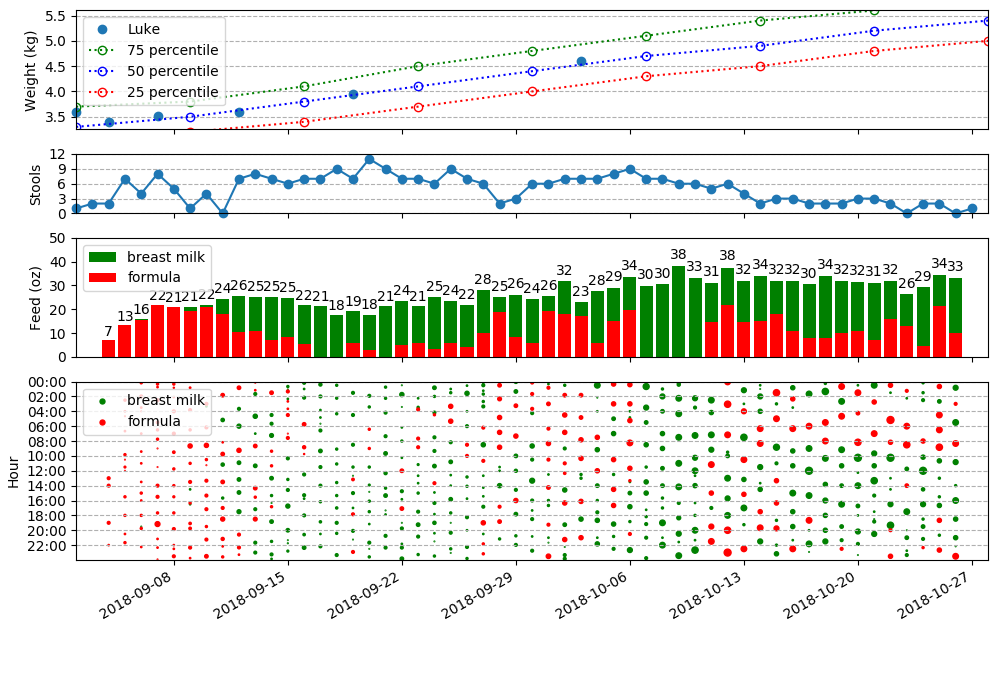
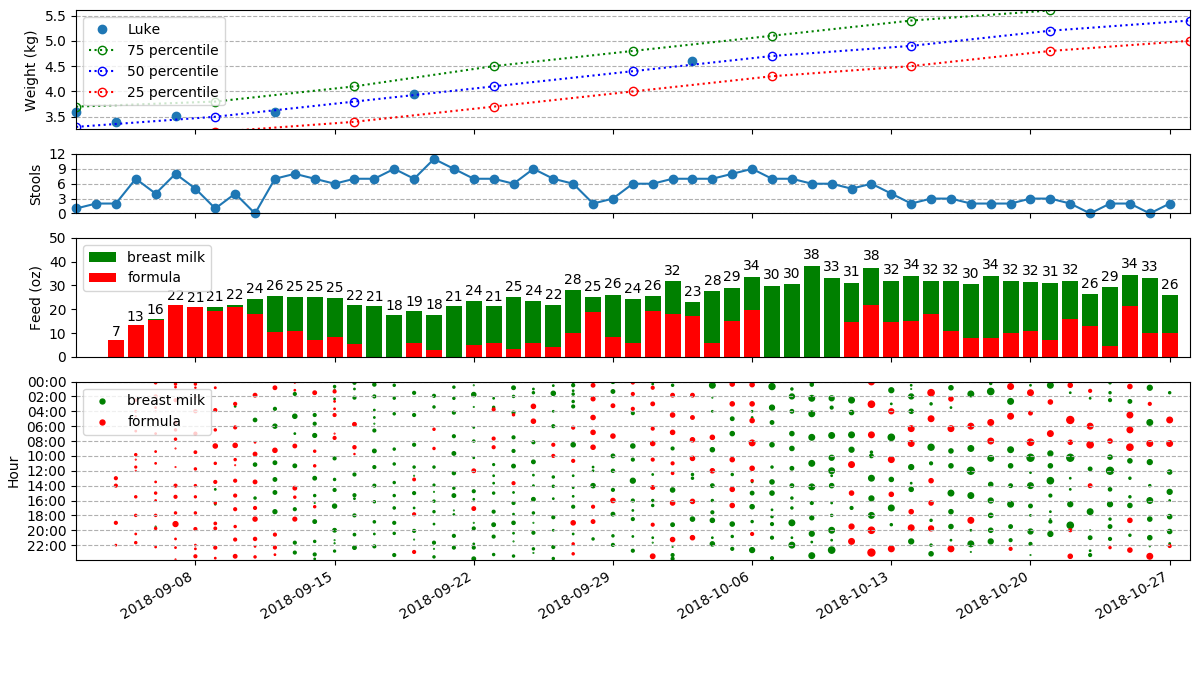
update 10.27.2018

diff --git a/src/analyze.py b/src/analyze.py
@@ -10,7 +10,7 @@ matplotlib.use('agg')  # for ChromeOS
 
 import matplotlib.pyplot as plt
 from matplotlib import gridspec
-#import matplotlib.dates as md
+# import matplotlib.dates as md
 
 import utils
 
@@ -35,7 +35,7 @@ weight_guide = pd.read_csv(
 )
 
 # ----------- figure setup --------------------------------
-fig = plt.figure(figsize=(10, 7))
+fig = plt.figure(figsize=(12, 7))
 gs = gridspec.GridSpec(nrows=4, ncols=1, height_ratios=[2, 1, 2, 3])
 dates = df2.index.date
 one_day = datetime.timedelta(days=1)
@@ -46,7 +46,7 @@ ax2.grid(True, axis='y', linestyle='--')
 plt.plot(dates, df2.Stool.values, 'o-', clip_on=False)
 plt.ylabel('Stools')
 utils.set_y_major(3)
-#ax2.set_xticks(df2.index.date, minor=True)
+# ax2.set_xticks(df2.index.date, minor=True)
 plt.ylim([0, max(df2.Stool.values) + 1])
 
 # ----------- plot weight change -----------------------
@@ -109,8 +109,8 @@ plt.legend(loc='upper left')
 utils.set_y_major(10)
 
 # ------------ plot daily feeding pattern -----------------
-#ax4 = plt.subplot2grid((6, 1), (3, 0), rowspan=3, sharex=ax2)
-#ax4 = plt.subplot(212, sharex=ax2)
+# ax4 = plt.subplot2grid((6, 1), (3, 0), rowspan=3, sharex=ax2)
+# ax4 = plt.subplot(212, sharex=ax2)
 ax4 = fig.add_subplot(gs[3], sharex=ax2)
 bm = df1.loc[df1.BM]
 formula = df1.loc[df1.BM == False]
